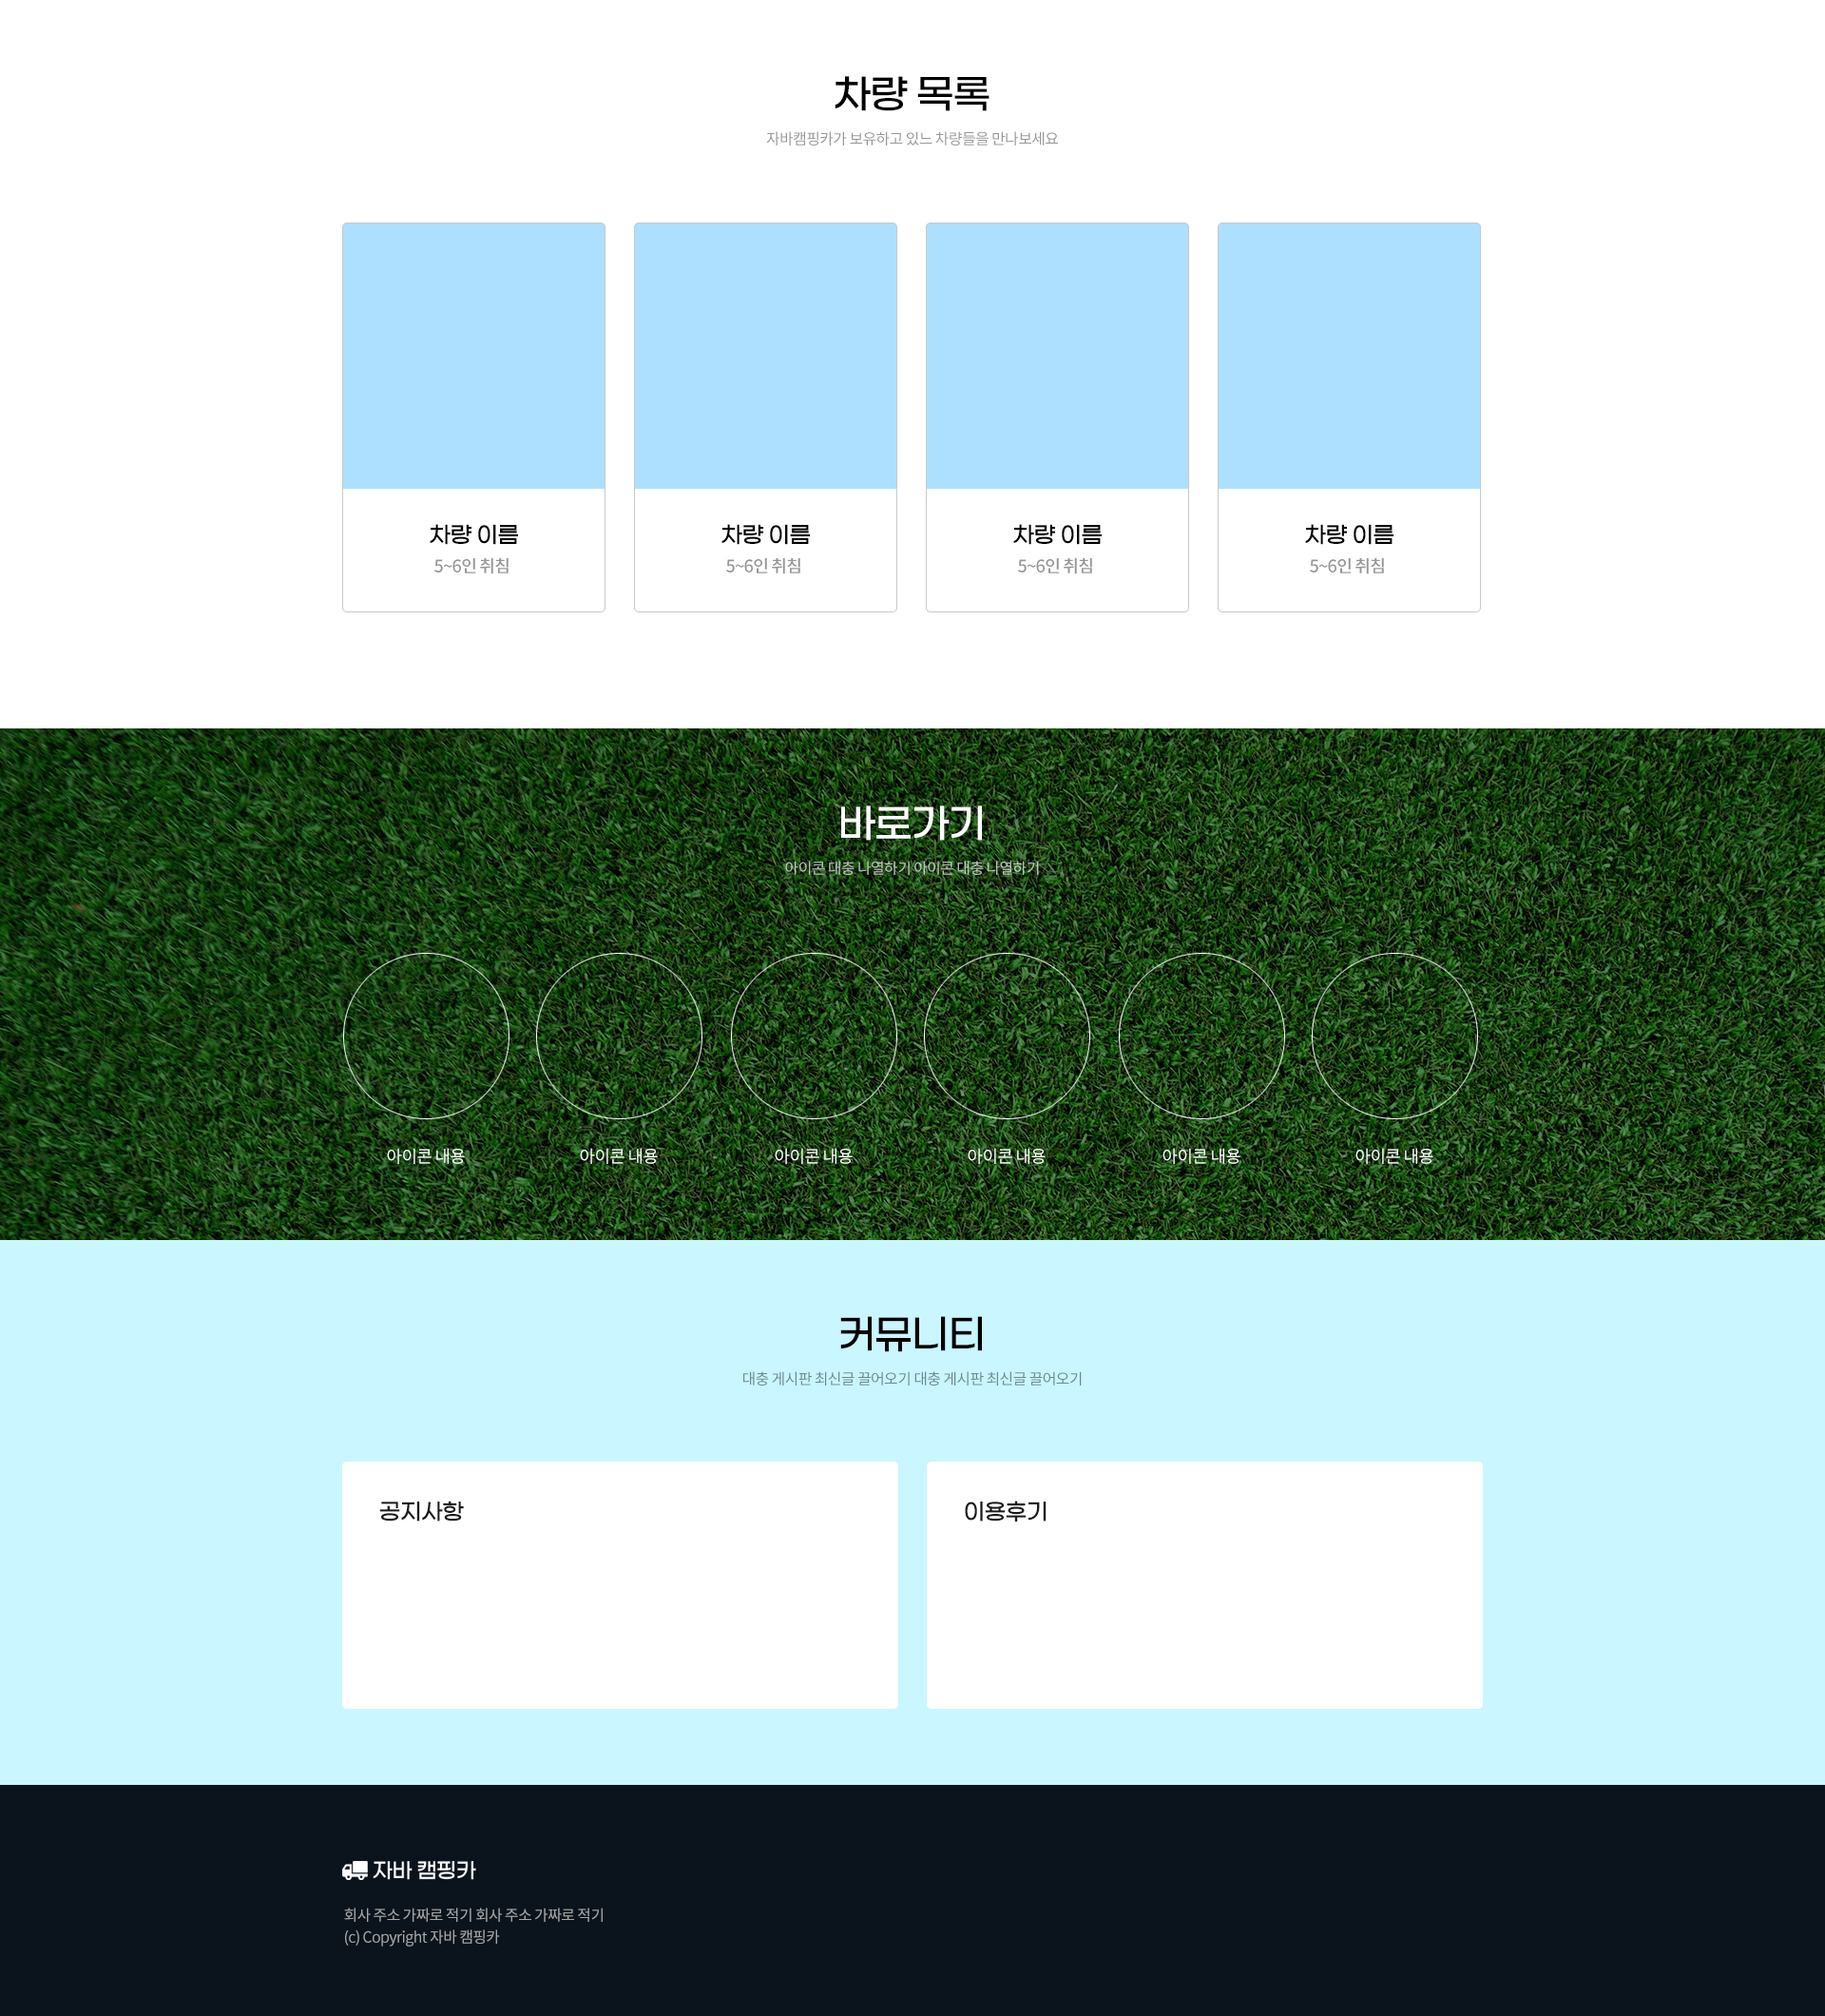
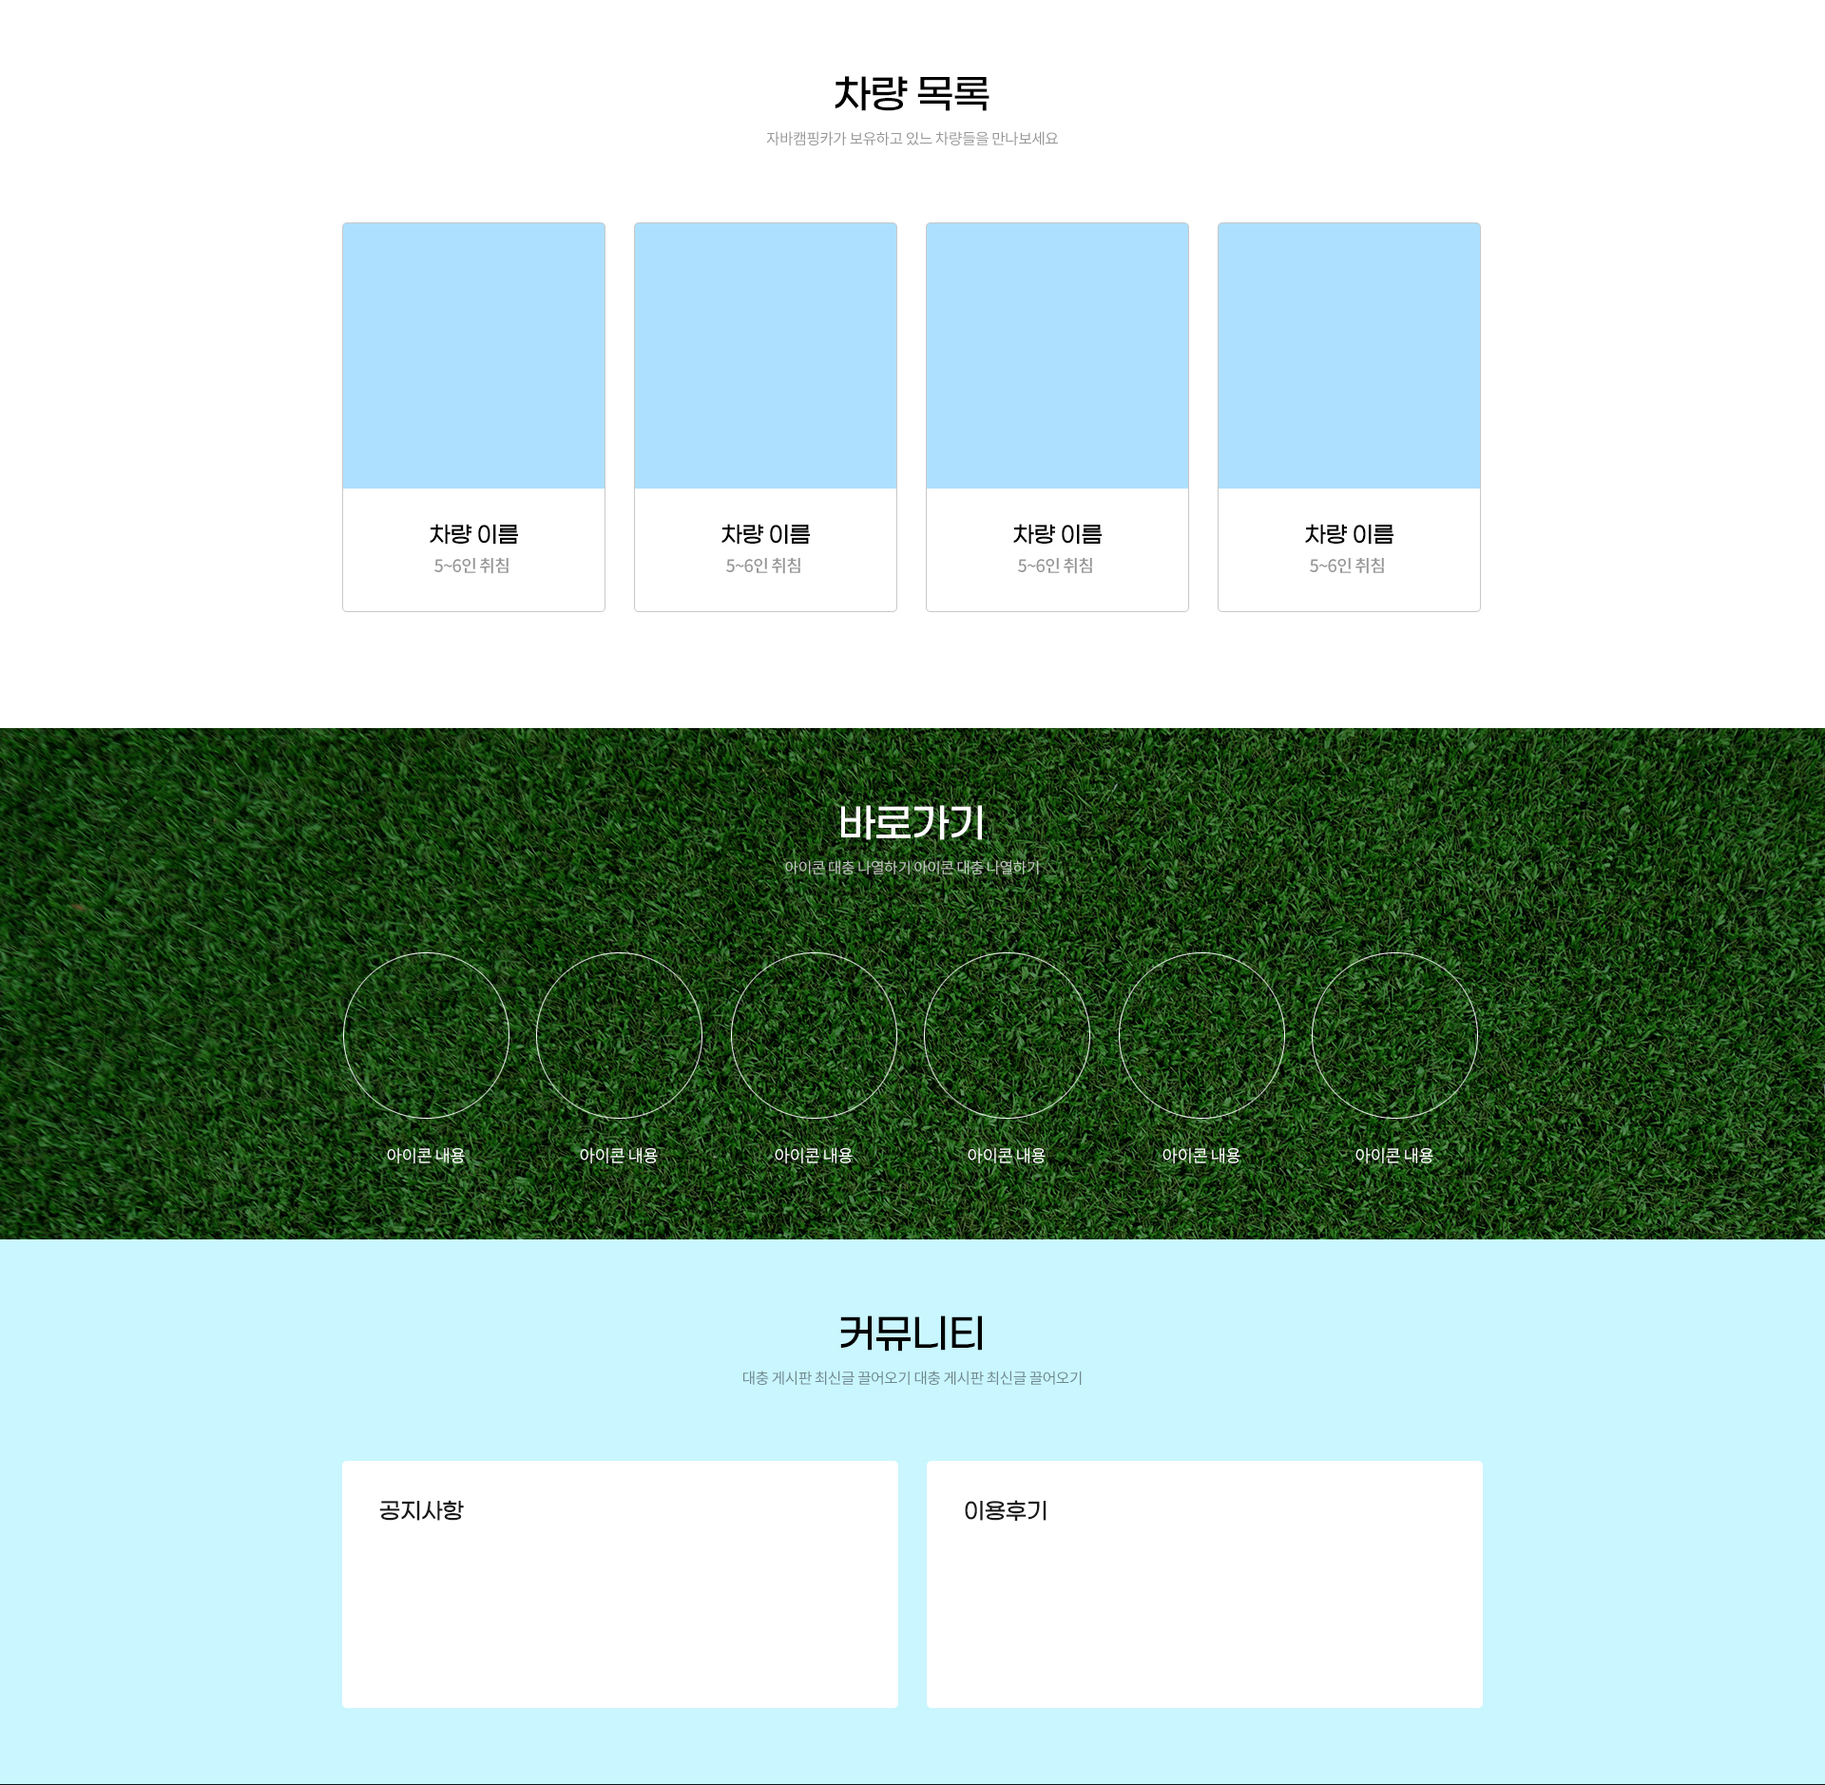
(※ 루트컨텍스트 수정 주의) 차량 등록 required 처리 / 푸터 수정

diff --git a/campingcar/src/main/java/kr/co/ccrent/controller/AdminController.java b/campingcar/src/main/java/kr/co/ccrent/controller/AdminController.java
@@ -75,13 +75,7 @@ public class AdminController {
 		System.out.println(carDTO);
 		// carService.register(carDTO, file, request, request.getParameter("order"));
 		carService.register(carDTO, request);
-
-
-		
-		
-		
 		return "redirect:/admin/car/list";
-
 	}
 
 	@PostMapping("/car/modify")
@@ -98,7 +92,9 @@ public class AdminController {
 		System.out.println(pageRequestDTO);
 		// model.addAttribute("dtolist", carService.getAll());
 		model.addAttribute("responseDTO", carService.getList(pageRequestDTO));
-
+		// 대여 회사 불러오기
+		List<CompanyDTO> companylist = companyService.getAll3();
+		model.addAttribute("companylist", companylist);		
 	}
 
 	@GetMapping("/car/read")
